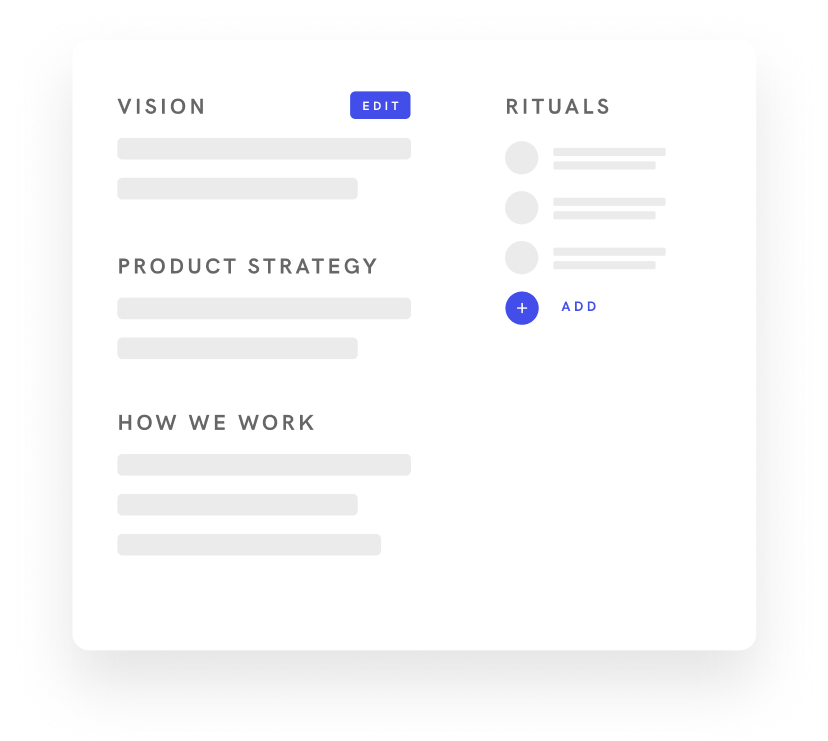
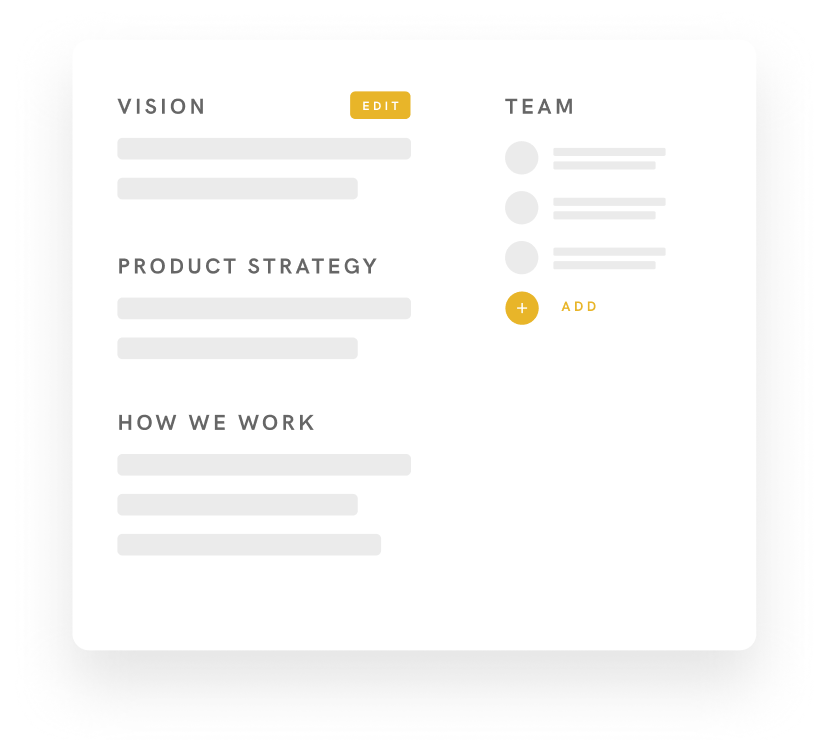
AB TEST: Landing page new branding; ELEMENT: ProductShowcase props passed up to view

diff --git a/public/index.html b/public/index.html
@@ -5,6 +5,7 @@
     <link rel="icon" href="%PUBLIC_URL%/favicon.ico" />
     <!-- Current Font -->
     <link href="https://fonts.googleapis.com/css?family=Karla|Poppins&display=swap" rel="stylesheet"  />
+    <link href="https://fonts.googleapis.com/css?family=Heebo:700&display=swap" rel="stylesheet">
     <!-- Material Icons -->
     <link href="https://fonts.googleapis.com/icon?family=Material+Icons" rel="stylesheet">
     <meta name="viewport" content="width=device-width, initial-scale=1" />

diff --git a/src/components/views/Referral/AcceptReferral.js b/src/components/views/Referral/AcceptReferral.js
@@ -29,7 +29,7 @@ export default class AcceptReferral extends Component {
           return;
         }
         // Generic Mixpanel event to track funnel
-        Mixpanel.track('B Signup: Referral accepted');
+        Mixpanel.track('C Signup: Referral accepted');
         // Success response - redirect and set tracker
         Mixpanel.track(`B Signup: Referral accepted: ${referralLink}`);
         window.location.href = 'www.productmastery.co';

diff --git a/src/styles/atoms/_elevation.scss b/src/styles/atoms/_elevation.scss
@@ -13,11 +13,11 @@
 // Primary Button
 
 @mixin button-primary-elevation-flat {
-  box-shadow: 0 4px 8px transparentize($secondary, 0.6);
+  box-shadow: 0 4px 8px transparentize($secondary, 0.7);
 }
 
 @mixin button-primary-elevation-raised {
-  box-shadow: 0 6px 12px transparentize($secondary, 0.6);
+  box-shadow: 0 6px 12px transparentize($secondary, 0.8);
 }
 
 // Secondary Button

diff --git a/src/components/blocks/RefereeInput/RefereeInput.jsx b/src/components/blocks/RefereeInput/RefereeInput.jsx
@@ -80,7 +80,7 @@ export default class Refer extends Component {
           return;
         }
         // Success response - redirect and set tracker
-        Mixpanel.track('B Signup: Signup');
+        Mixpanel.track('C Signup: Signup');
         window.location.href = `/statistics/${response.data.user.referral_link}`;
       })
       .catch(error => {

diff --git a/src/components/blocks/ReferralBlock/ReferralBlock.jsx b/src/components/blocks/ReferralBlock/ReferralBlock.jsx
@@ -138,7 +138,7 @@ export default class ReferralBlock extends Component {
           });
           return;
         }
-        Mixpanel.track('B Signup: Referral sent');
+        Mixpanel.track('C Signup: Referral sent');
         this.getStatistics(this.props.referralLink);
         this.setState({
           error: response.data.data.failureMessages,

diff --git a/src/components/blocks/Hero/Hero.scss b/src/components/blocks/Hero/Hero.scss
@@ -68,12 +68,14 @@
       min-width: 242px;
 
       @media (min-width: $screen-sm-min) {
-        @include margin(right, 0);
+        margin-right: -24px;
+        border-radius: 100px 0 0 100px;
         min-width: 420px;
       }
     }
 
     button {
+      @include margin(left, reset);
       font-size: 11px;
     }
 

diff --git a/src/components/blocks/Hero/Hero.js b/src/components/blocks/Hero/Hero.js
@@ -24,7 +24,7 @@ type FormTypes = {
 const CustomForm = ({ onSubscribe }: FormTypes) => {
   let email;
   const submit = () => {
-    Mixpanel.track('B Signup: Subscribed!');
+    Mixpanel.track('C Signup: Subscribed!');
 
     if (email && email.value && email.value.indexOf('@') > -1) {
       onSubscribe({

diff --git a/src/styles/atoms/_colors.scss b/src/styles/atoms/_colors.scss
@@ -1,11 +1,11 @@
 // Colors
-$primary: #6980e2;
-$secondary: #73e4f0;
+$primary: #e8b529;
+$secondary: #f6c743;
 $white: #fff;
 $smoke-white: rgba(255, 255, 255, 0.4);
 
 // Dark/Grey
-$dark: #21112d;
+$dark: #121c27;
 $grey: #888;
 $border-grey: #e7e7e7;
 $inactive-grey: #bdbdbd;

diff --git a/src/components/blocks/Footer/Footer.jsx b/src/components/blocks/Footer/Footer.jsx
@@ -63,10 +63,10 @@ class Footer extends Component {
   }
 
   goToAbout = () => {
-    Mixpanel.track('B Signup: About');
+    Mixpanel.track('C Signup: About');
   };
   goToBlog = () => {
-    Mixpanel.track('B Signup: Blog');
+    Mixpanel.track('C Signup: Blog');
   };
 }
 

diff --git a/src/components/views/Home/Home.js b/src/components/views/Home/Home.js
@@ -26,7 +26,7 @@ import imgMentors from '../../../assets/images/prototype/product_mentors.png';
 
 export default class Home extends Component {
   componentDidMount() {
-    Mixpanel.track('B Signup: Home');
+    Mixpanel.track('C Signup: Home');
   }
 
   render() {

diff --git a/src/components/views/Mentors/Mentors.js b/src/components/views/Mentors/Mentors.js
@@ -16,7 +16,7 @@ import './Mentors.scss';
 
 export default class Home extends Component {
   componentDidMount() {
-    Mixpanel.track('B Signup: Mentors');
+    Mixpanel.track('C Signup: Mentors');
   }
 
   render() {

diff --git a/src/components/views/Referee/Referee.js b/src/components/views/Referee/Referee.js
@@ -7,7 +7,7 @@ import './Referee.scss';
 
 export default class Home extends Component {
   componentDidMount() {
-    Mixpanel.track('B Signup: Referee');
+    Mixpanel.track('C Signup: Referee');
   }
 
   render() {
